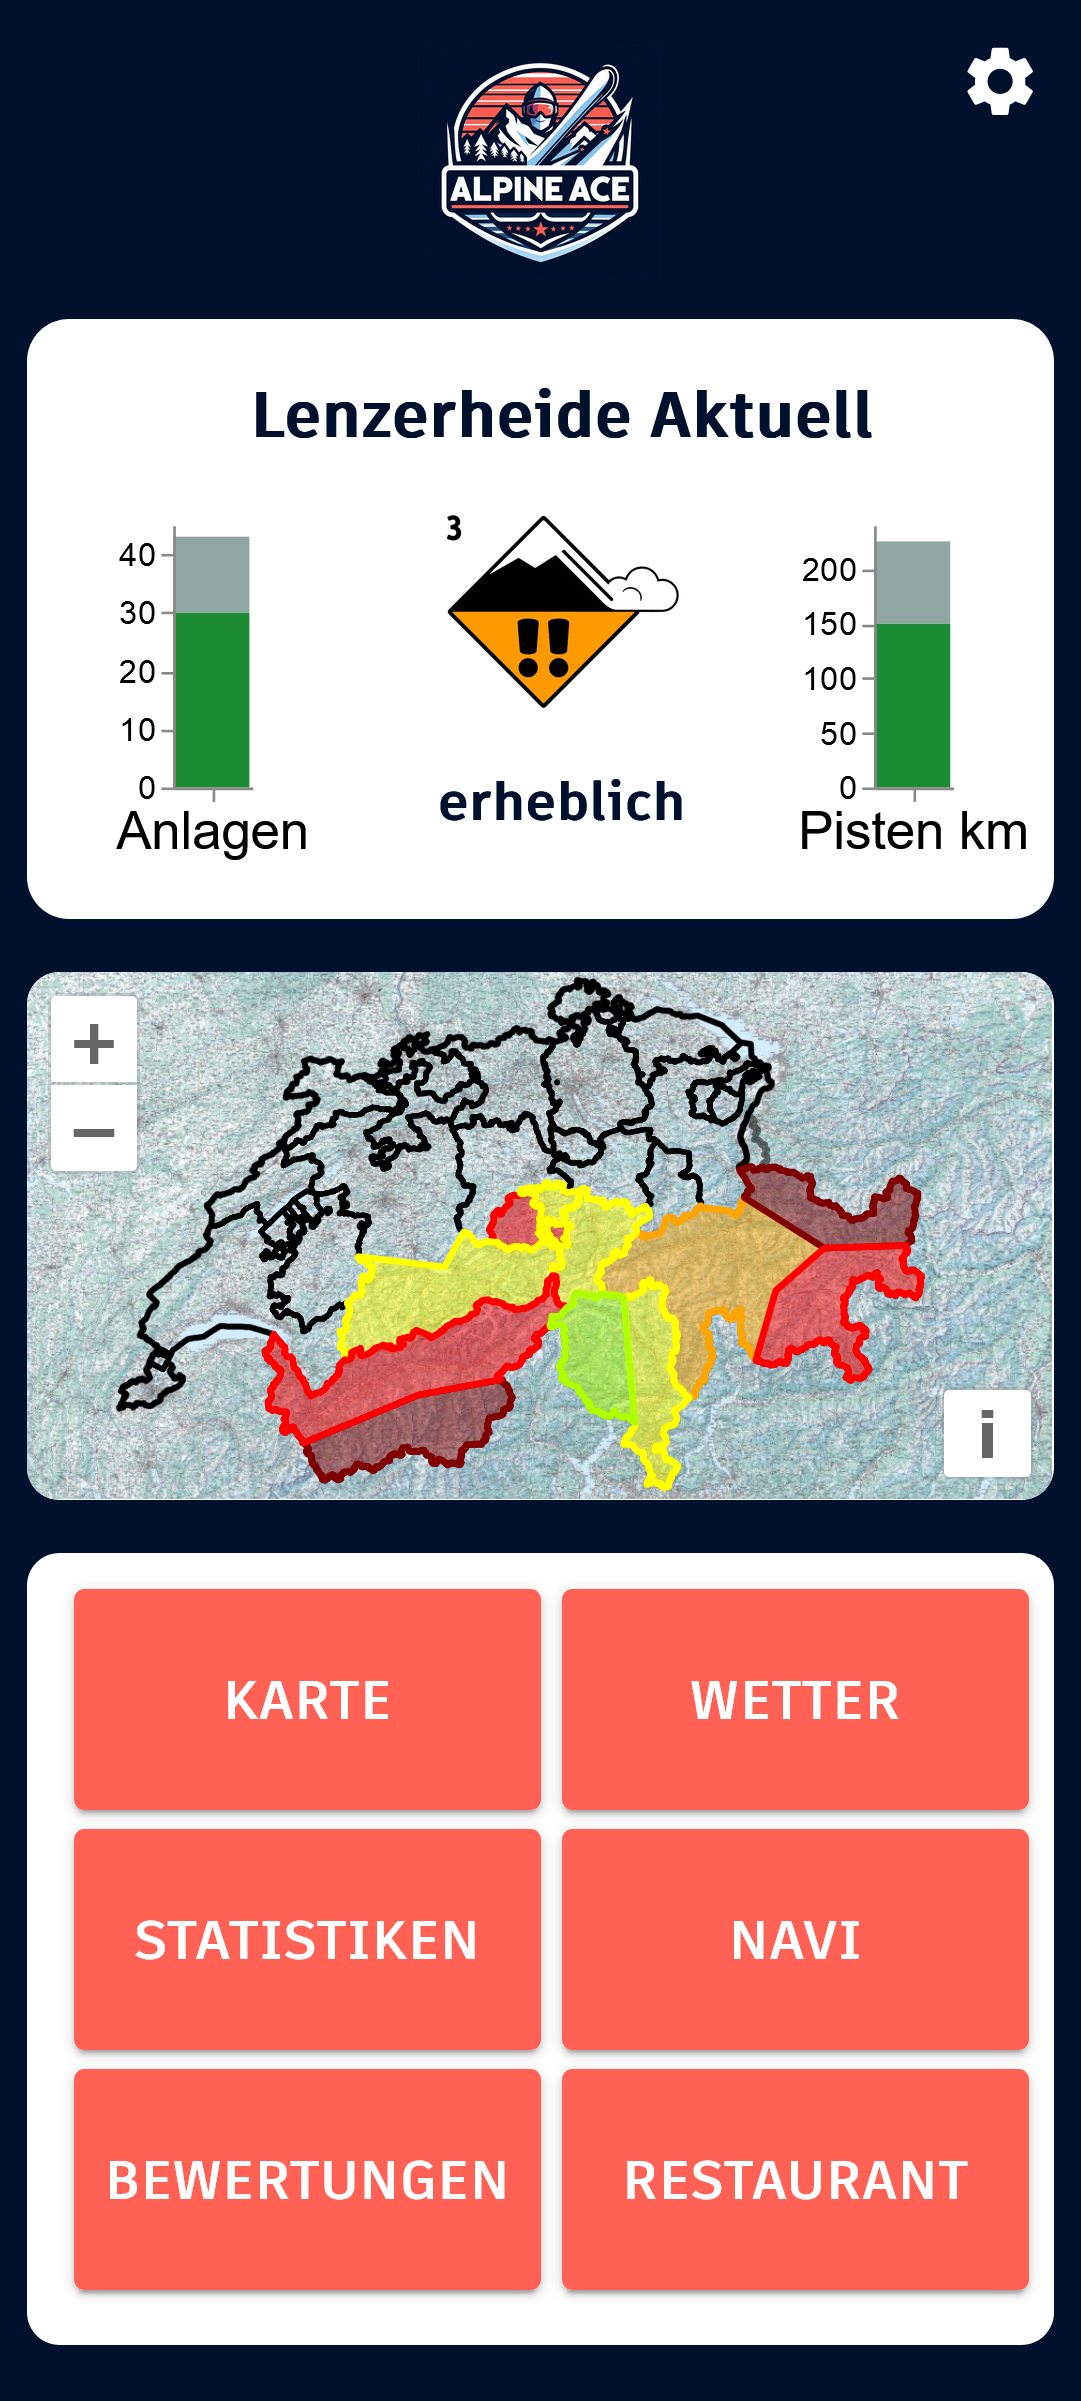
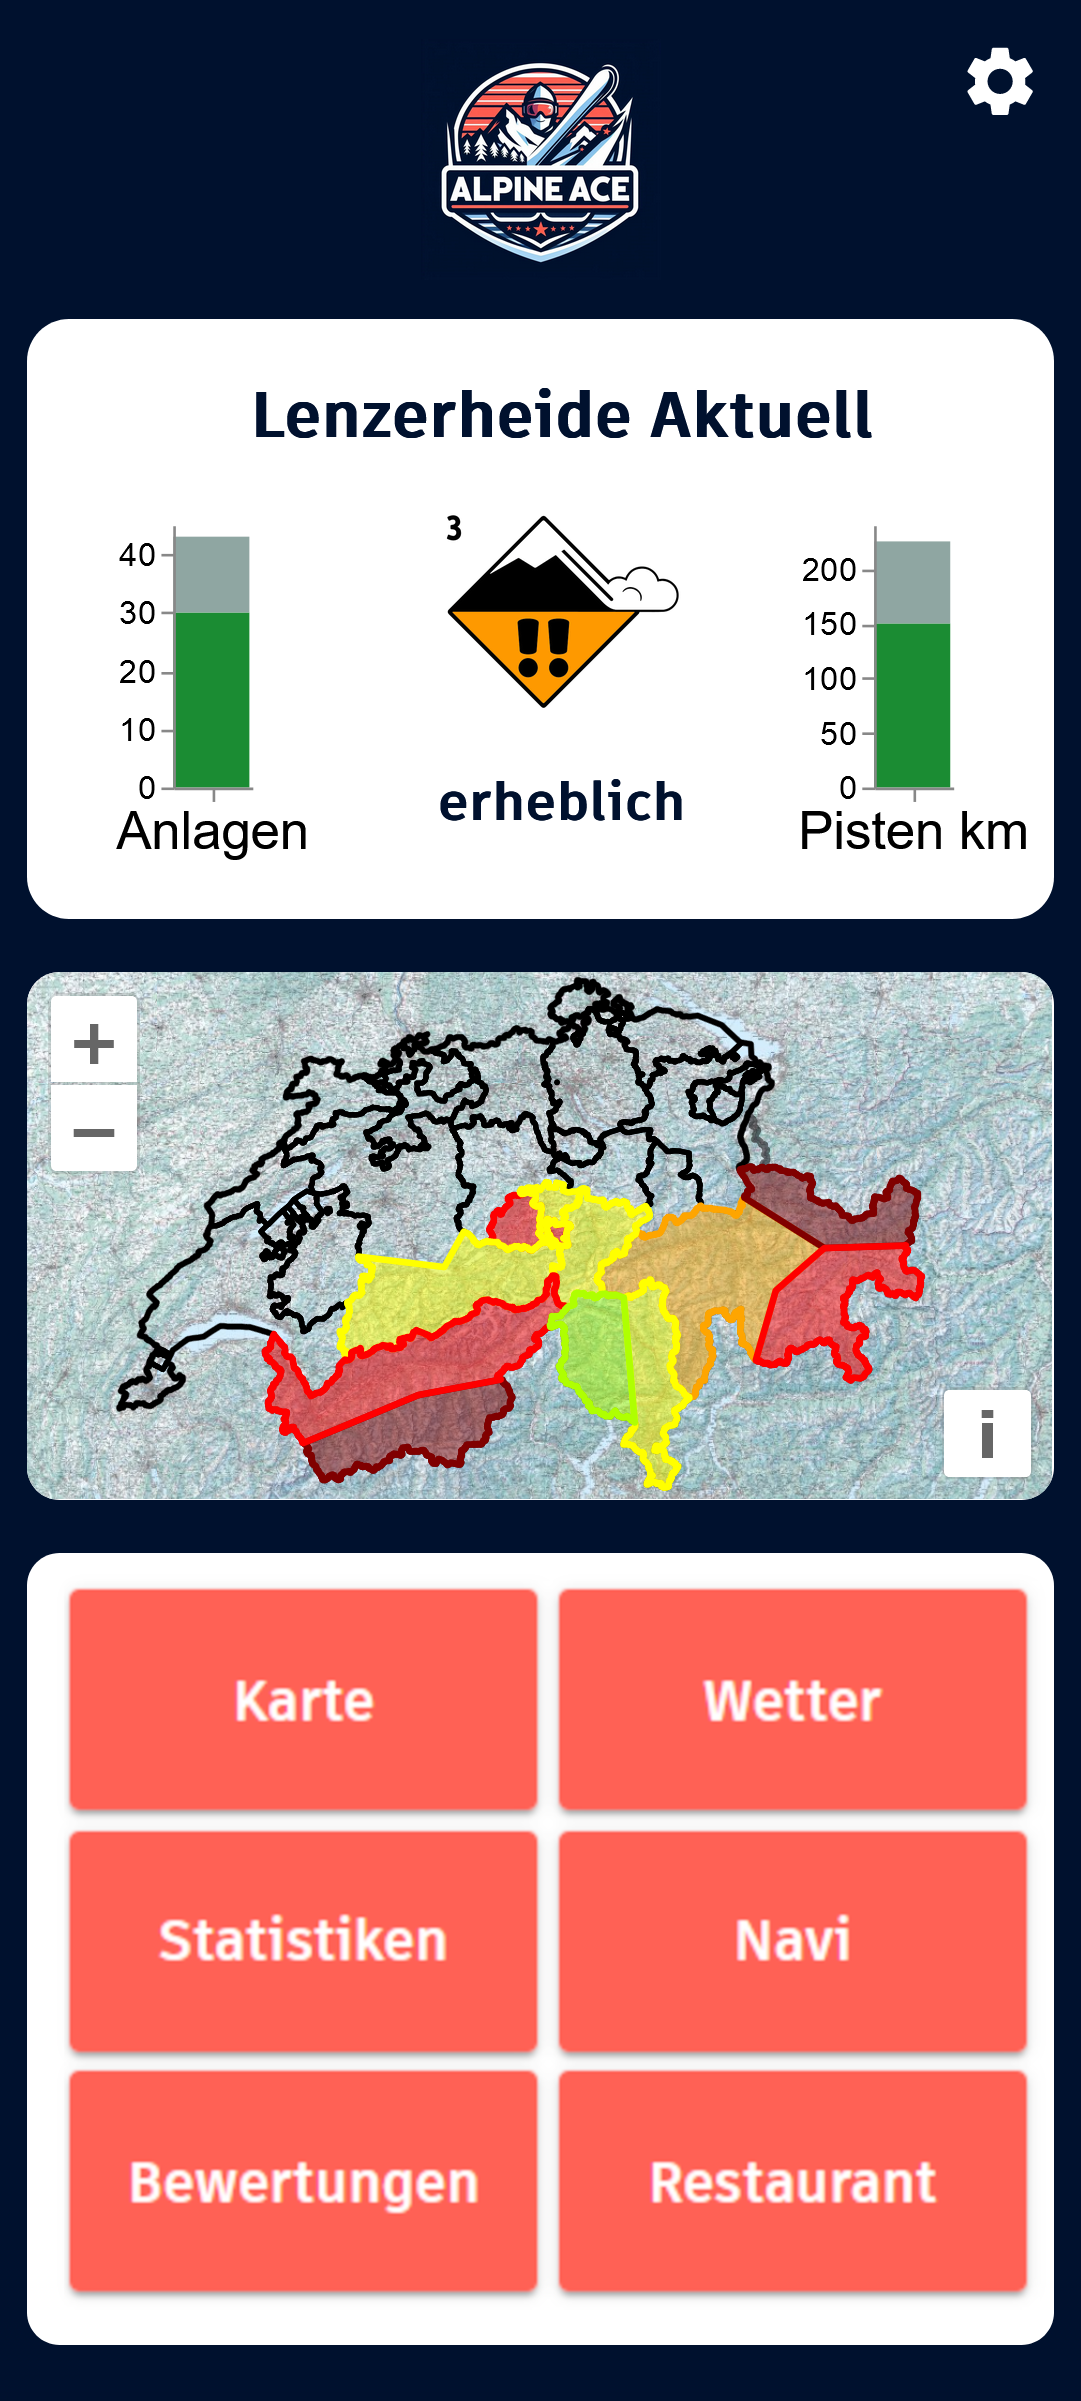
Startseite Buttons Schrift gross und kleinschreibung , Bild anpassen Schrift

Changed region(s): [[0.0611, 0.656, 0.9463, 0.9683], [0.6411, 0.6872, 0.8242, 0.7185], [0.2137, 0.6872, 0.3663, 0.7185]]

diff --git a/alpine_ace/src/App.css b/alpine_ace/src/App.css
@@ -152,7 +152,6 @@
   text-align: center; /* Centers the logo horizontally */
 }
 
-
 .Navi-button {
   width: 2em;
   height: 2em;
@@ -163,22 +162,19 @@
   margin-bottom: 2vh;
   height: 5vh;
 }
-.large-box{
+.large-box {
   flex: 1;
 }
-.small-boxes-wrapper{
+.small-boxes-wrapper {
   flex: 1;
   display: flex;
   flex-direction: column;
 }
 
-.prognosis-chart{
+.prognosis-chart {
   width: 100%;
   height: 80%;
-
 }
-
-
 
 .vega-container {
   display: grid; /* Das übergeordnete Element als Grid definieren */

diff --git a/alpine_ace/src/Components/Hauptmenu.jsx b/alpine_ace/src/Components/Hauptmenu.jsx
@@ -95,7 +95,7 @@ const Hauptmenu = () => {
             variant="contained"
             color="p_red"
             fullWidth
-            sx={{ fontSize: "2.3vh" }}
+            sx={{ fontSize: "2.3vh", textTransform: "none" }}
           >
             {text}
           </Button>
